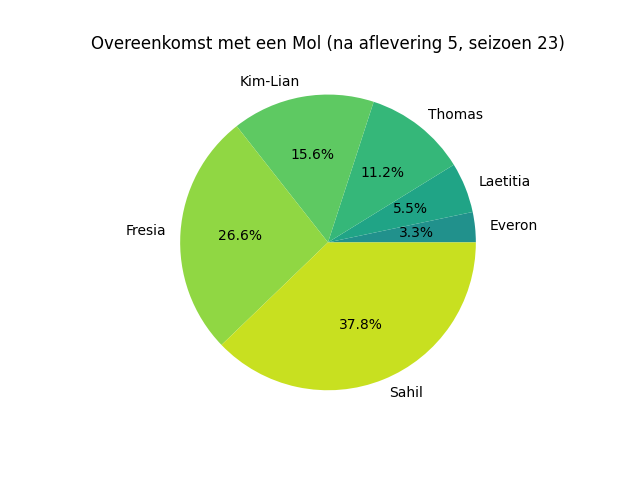
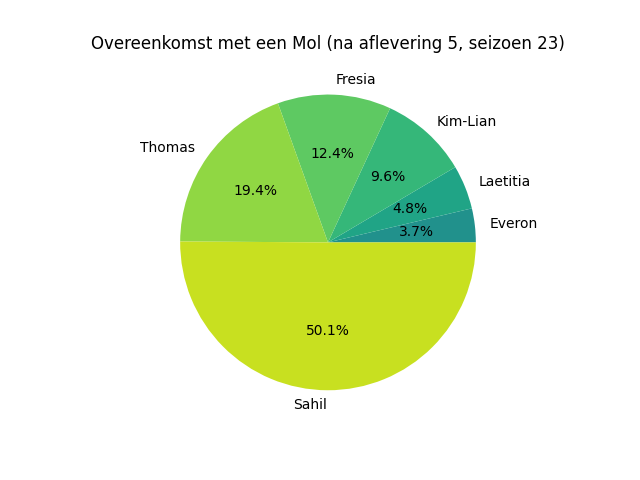
add earning and exam data for s23 e7

diff --git a/moldel/Data/ExamData/Exams/Season23.py b/moldel/Data/ExamData/Exams/Season23.py
@@ -475,12 +475,51 @@ episode6 = Episode(players6, result6, input6, questions6)
 ################
 # Aflevering 7
 players7 = [Player.EVERON_23, Player.FRESIA_23, Player.KIM_LIAN_23, Player.LAETITIA_23, Player.THOMAS_23]
-# questions7 = {
-# }
-# input7 = {
-# }
-# result7 = Result(DropType.EXECUTION_DROP, [])
-# episode7 = Episode(players7, result7, input7, questions7)
+questions7 = {
+    # Schoot de Mol als eerste alle flessen kapot tijdens de opdracht 'Testafette'?
+    18: Question({
+        # Ja
+        1: [Player.THOMAS_23],
+        # Nee
+        2: [Player.EVERON_23, Player.FRESIA_23, Player.LAETITIA_23, Player.KIM_LIAN_23]
+    }),
+    # Wie is de Mol?
+    20: Question({
+        # Everon
+        1: [Player.EVERON_23],
+        # Fresia
+        2: [Player.FRESIA_23],
+        # Kim-Lian
+        3: [Player.KIM_LIAN_23],
+        # Laetitia
+        4: [Player.LAETITIA_23],
+        # Thomas
+        5: [Player.THOMAS_23]
+    })
+}
+input7 = {
+    Player.FRESIA_23: TestInput(
+        immunity=True
+    ),
+    Player.THOMAS_23: TestInput(
+        {20: 3},
+        accusations=[Player.KIM_LIAN_23]
+    ),
+    Player.EVERON_23: TestInput(
+        {18: 2, 20: 3},
+        accusations=[Player.KIM_LIAN_23]
+    ),
+    Player.LAETITIA_23: TestInput(
+        {20: 3},
+        accusations=[Player.KIM_LIAN_23]
+    ),
+    Player.KIM_LIAN_23: TestInput(
+        {20: 1},
+        accusations=[Player.EVERON_23]
+    ),
+}
+result7 = Result(DropType.EXECUTION_DROP, [Player.LAETITIA_23])
+episode7 = Episode(players7, result7, input7, questions7)
 
 ################
 # Aflevering 8
@@ -514,6 +553,7 @@ season23 = Season(
         3: episode3,
         4: episode4,
         5: episode5,
-        6: episode6
+        6: episode6,
+        7: episode7
     }
 )

diff --git a/moldel/Data/MoneyData/Earnings/Season23.py b/moldel/Data/MoneyData/Earnings/Season23.py
@@ -134,6 +134,23 @@ exercises6 = [
     ])
 ]
 
+################
+# Aflevering 7
+players7 = {Player.EVERON_23, Player.FRESIA_23, Player.KIM_LIAN_23, Player.LAETITIA_23, Player.THOMAS_23}
+exercises7 = [
+    # Opdracht 1: Vakmanscha(a)p
+    Exercise(episode = 7, alive = players7, maximum = 2000, earned = [
+        Earning(money = -815, major = {Player.EVERON_23, Player.KIM_LIAN_23, Player.THOMAS_23, Player.FRESIA_23, Player.LAETITIA_23})
+    ]),
+    # Opdracht 2: De boot missen?
+    Exercise(episode = 7, alive = players7, maximum = 1500, earned = [
+        Earning(money = 100, major = {Player.FRESIA_23}),
+        Earning(money = 300, major = {Player.KIM_LIAN_23}),
+        Earning(money = 200, major = {Player.LAETITIA_23}),
+        Earning(money = 250, major = {Player.THOMAS_23})
+    ])
+]
+
 season23 = Season(
-    exercises1 + exercises2 + exercises3 + exercises4 + exercises5 + exercises6
+    exercises1 + exercises2 + exercises3 + exercises4 + exercises5 + exercises6 + exercises7
 )

diff --git a/README.md b/README.md
@@ -2,9 +2,9 @@
 
 Een algoritme om de Mol te voorspellen.
 
-## 🔦 Huidige voorspelling (s23e6, 2022)
+## 🔦 Huidige voorspelling (s23e7, 2022)
 
-![Voorspelling na aflevering 6, seizoen 23 (2022)](https://github.com/LennartJKlein/Moldel/blob/master/results/Season%2023%20(2022)/s23e6.png?raw=true)
+![Voorspelling na aflevering 7, seizoen 23 (2022)](https://github.com/LennartJKlein/Moldel/blob/master/results/Season%2023%20(2022)/s23e7.png?raw=true)
 
 ## 📺 Over Wie is de Mol
 
